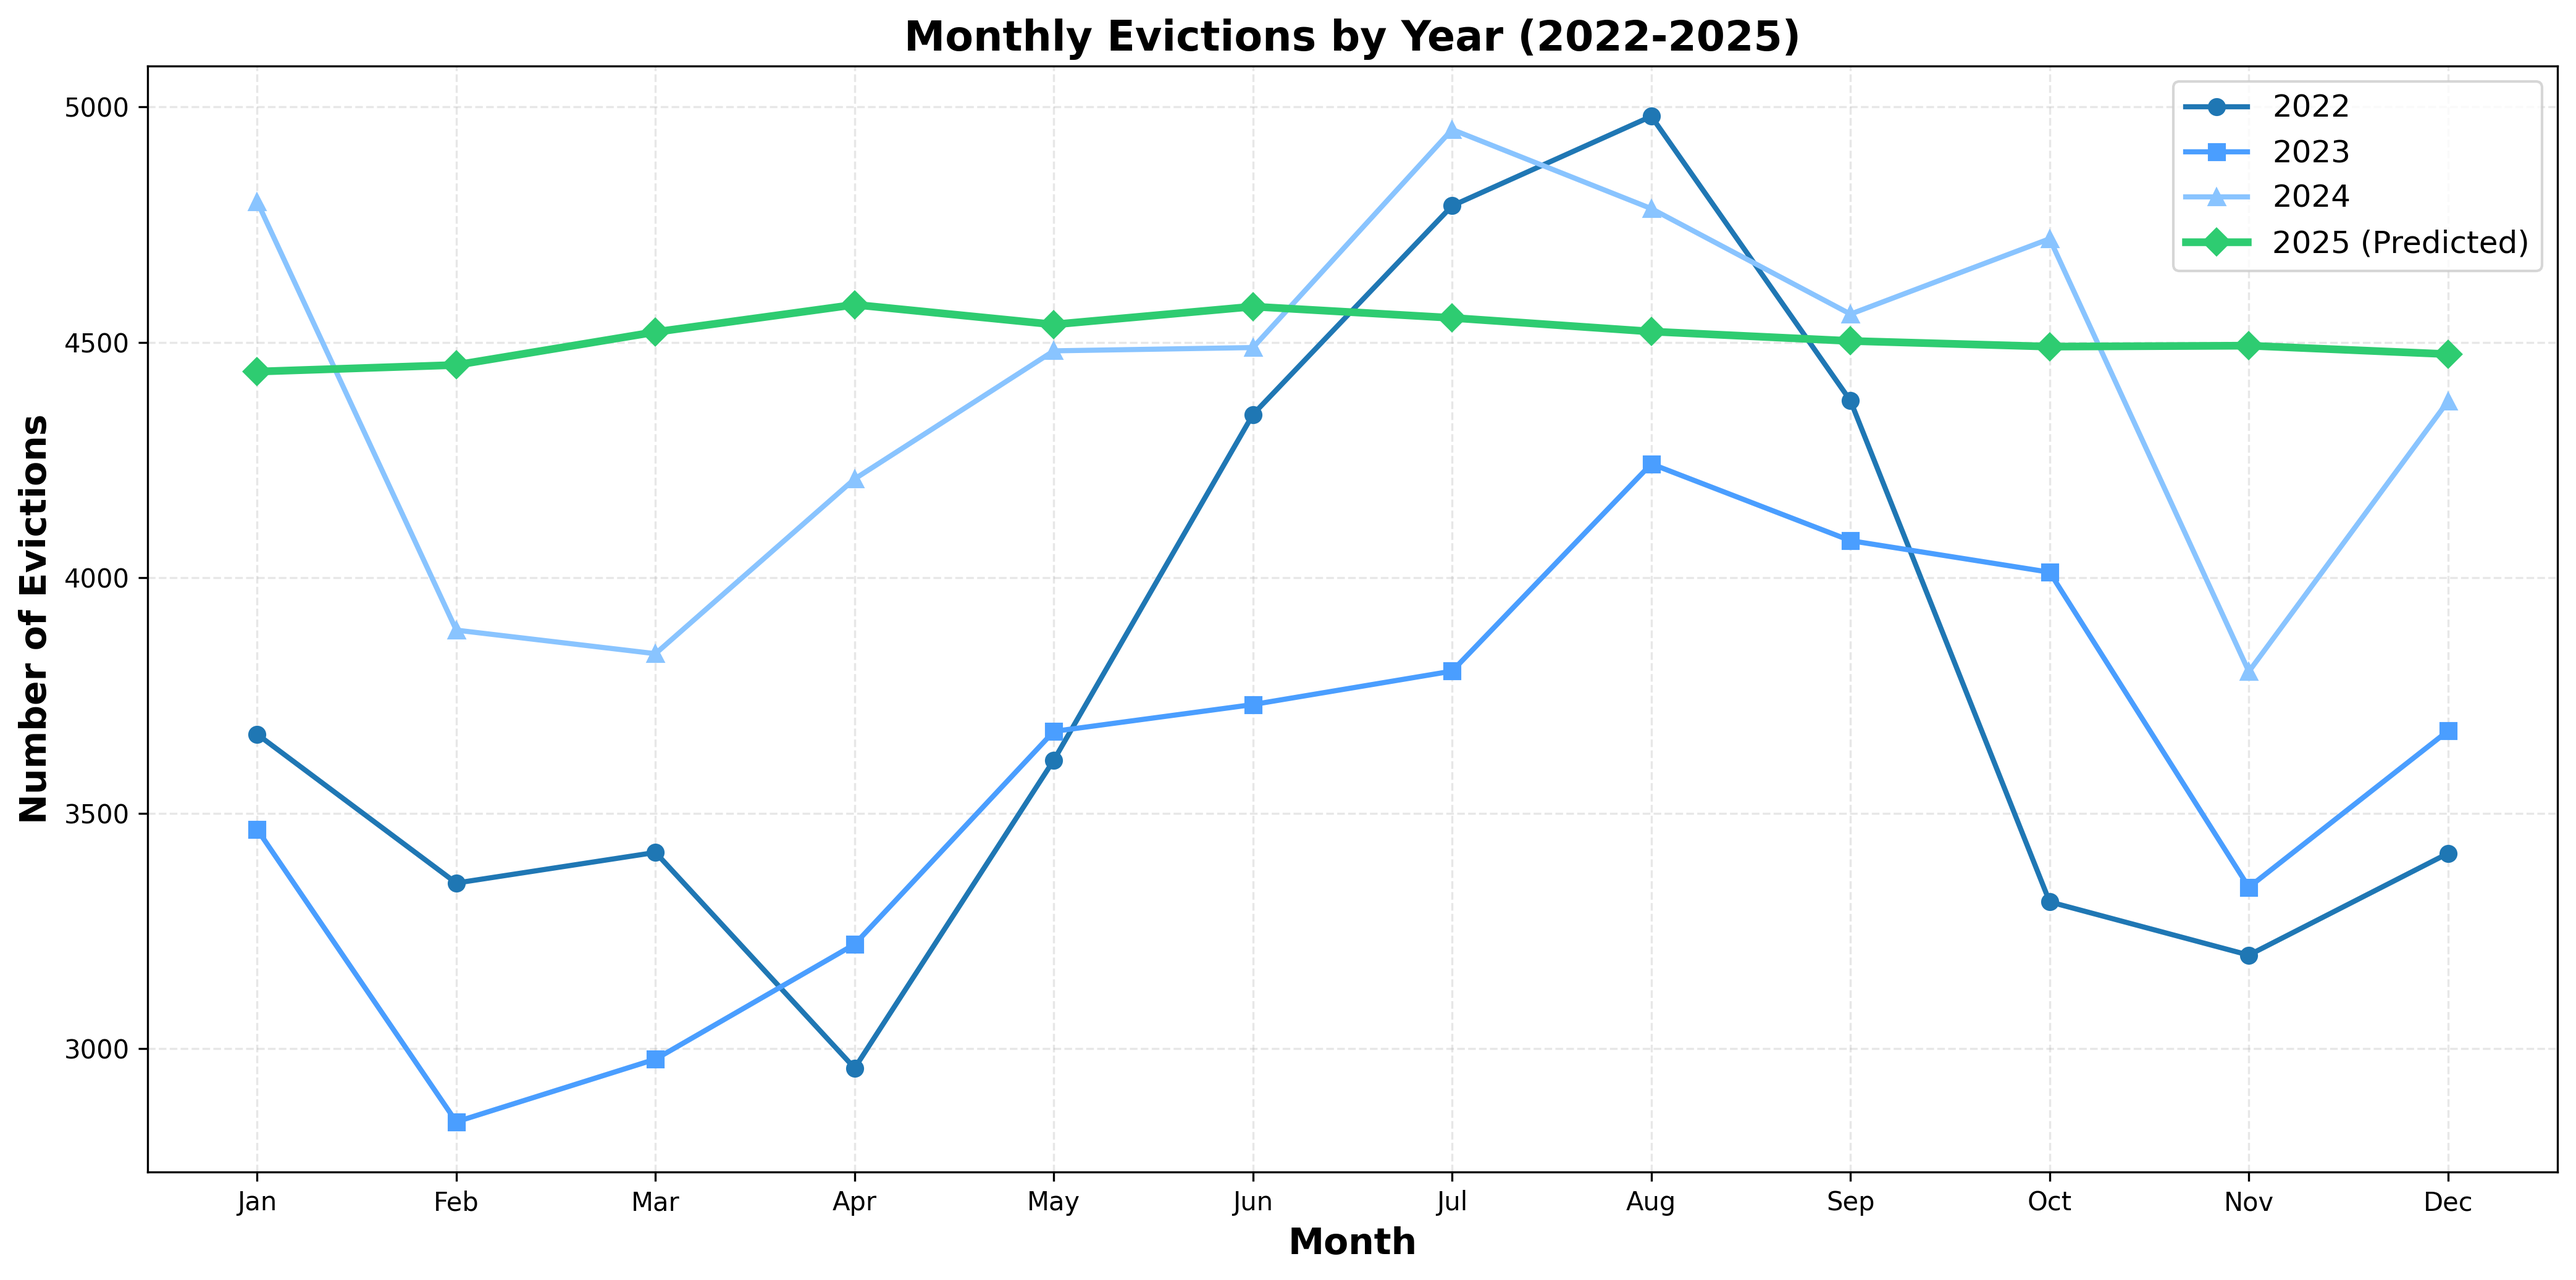
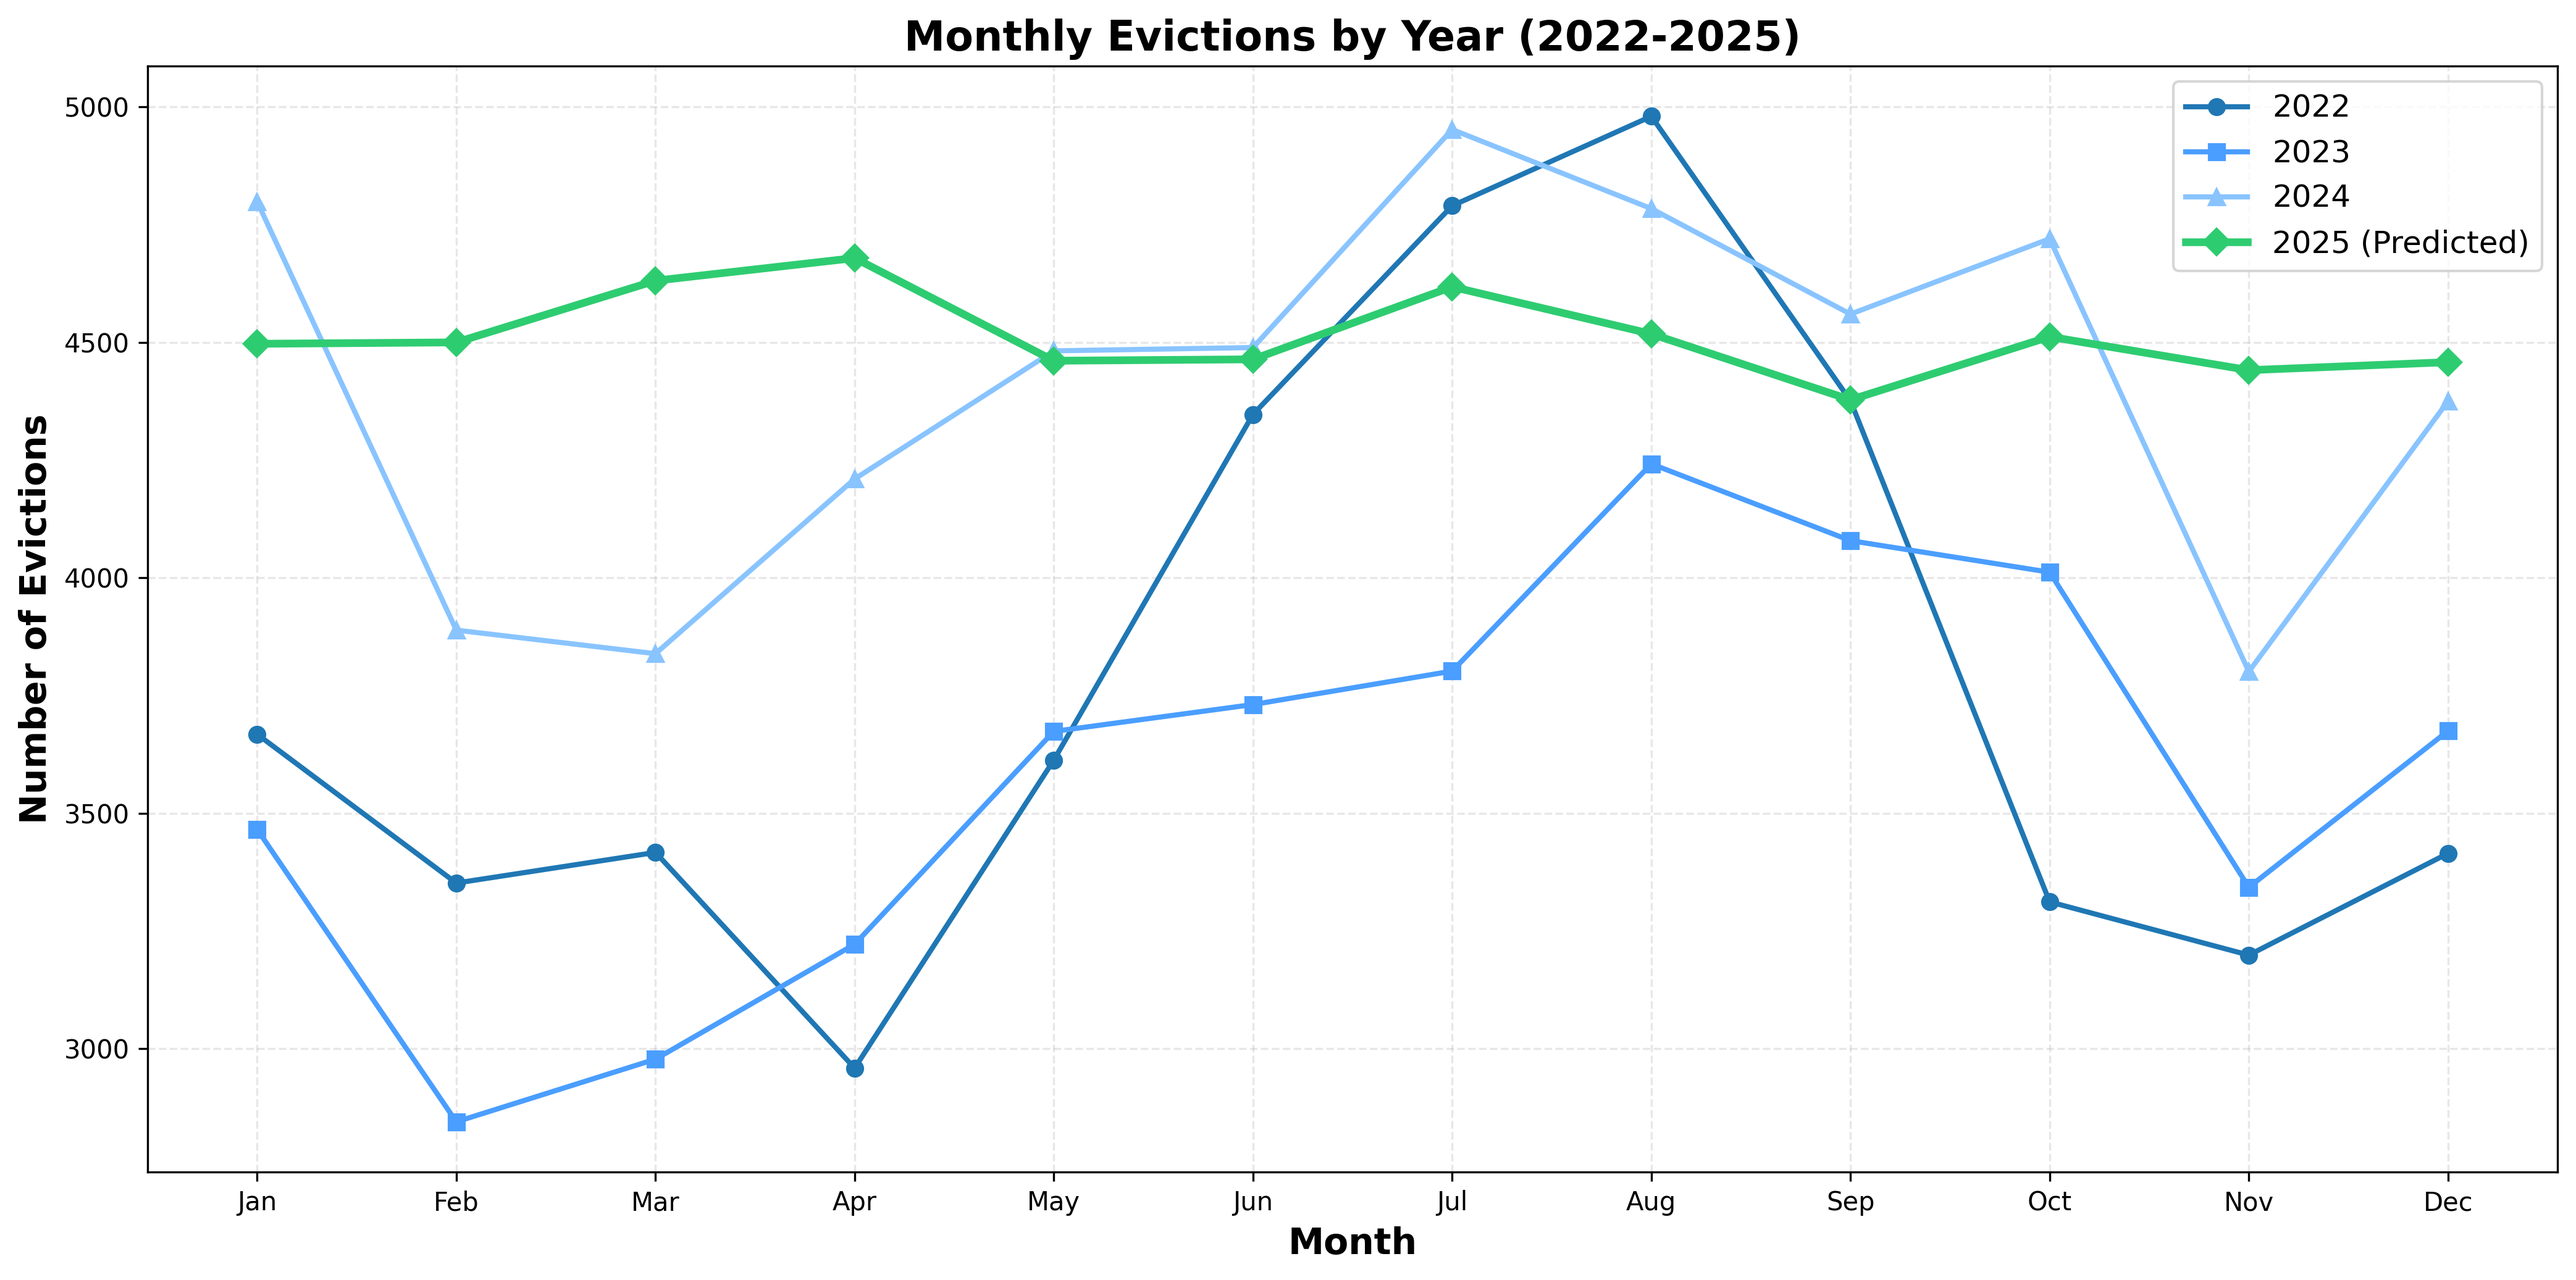
changed the predictive model for better results

Changed region(s): [[0.374, 0.216, 0.9662, 0.3086], [0.0935, 0.1851, 0.374, 0.3086]]

diff --git a/TimeSeries.py b/TimeSeries.py
@@ -53,9 +53,15 @@ feature_cols = ['time_index', 'year', 'month_num', 'quarter', 'month_sin', 'mont
 X_train = train_data[feature_cols]
 y_train = train_data['evictions']
 
-# Train Random Forest model
+# Train Random Forest model with enhanced parameters
 print("Training Random Forest model...")
-rf_model = RandomForestRegressor(n_estimators=100, max_depth=10, random_state=42)
+rf_model = RandomForestRegressor(
+    n_estimators=200,
+    max_depth=15,
+    min_samples_split=2,
+    min_samples_leaf=1,
+    random_state=42
+)
 rf_model.fit(X_train, y_train)
 
 # Create 2025 prediction data
@@ -97,9 +103,32 @@ for i, row in future_df.iterrows():
     X_pred = future_df.loc[i:i, feature_cols]
     pred = max(0, rf_model.predict(X_pred)[0])
     all_values.append(pred)
-    predictions_2025.append(int(pred))
+    predictions_2025.append(pred)
 
-future_df['evictions'] = predictions_2025
+# Add realistic fluctuations to 2025 predictions
+np.random.seed(42)
+
+# Calculate the base variation in historical data
+historical_std = monthly['evictions'].std()
+
+# Add monthly seasonality based on historical patterns
+monthly_variation = np.sin(2 * np.pi * future_df['month_num'] / 12) * (historical_std * 0.15)
+
+# Add quarterly patterns
+quarterly_variation = np.cos(2 * np.pi * future_df['quarter'] / 4) * (historical_std * 0.10)
+
+# Add controlled random noise
+noise = np.random.normal(0, historical_std * 0.12, len(predictions_2025))
+
+# Combine all variations
+predictions_2025_enhanced = []
+for i, base_pred in enumerate(predictions_2025):
+    enhanced_pred = base_pred + monthly_variation.iloc[i] + quarterly_variation.iloc[i] + noise[i]
+    # Ensure prediction stays positive and reasonable
+    enhanced_pred = max(0, enhanced_pred)
+    predictions_2025_enhanced.append(int(enhanced_pred))
+
+future_df['evictions'] = predictions_2025_enhanced
 
 # Print predictions
 print("\n2025 Predictions:")
@@ -173,6 +202,6 @@ for year in [2022, 2023, 2024]:
     if len(year_data) > 0:
         print(f"{year}: {int(year_data['evictions'].sum()):>8,} total | {int(year_data['evictions'].mean()):>6,} avg/month")
 
-print(f"2025: {sum(predictions_2025):>8,} total | {int(np.mean(predictions_2025)):>6,} avg/month (Predicted)")
+print(f"2025: {sum(predictions_2025_enhanced):>8,} total | {int(np.mean(predictions_2025_enhanced)):>6,} avg/month (Predicted)")
 
 print("\nDone!")
